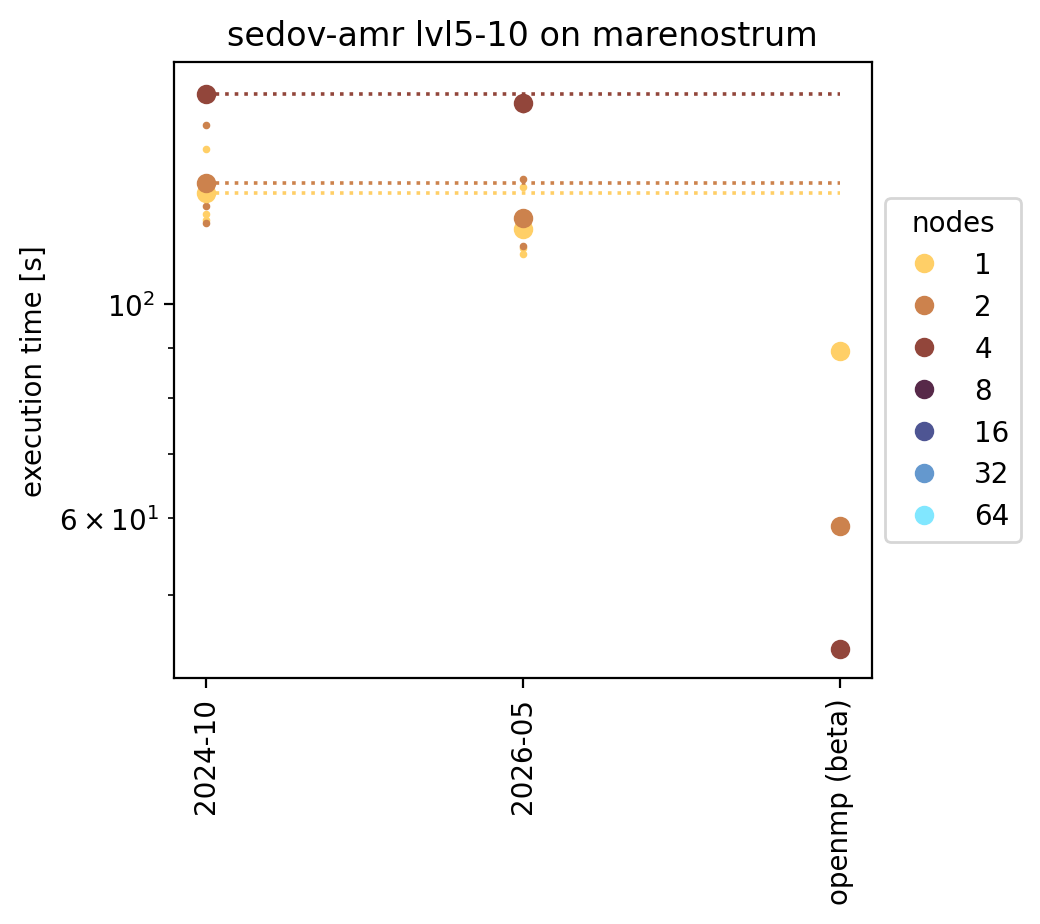
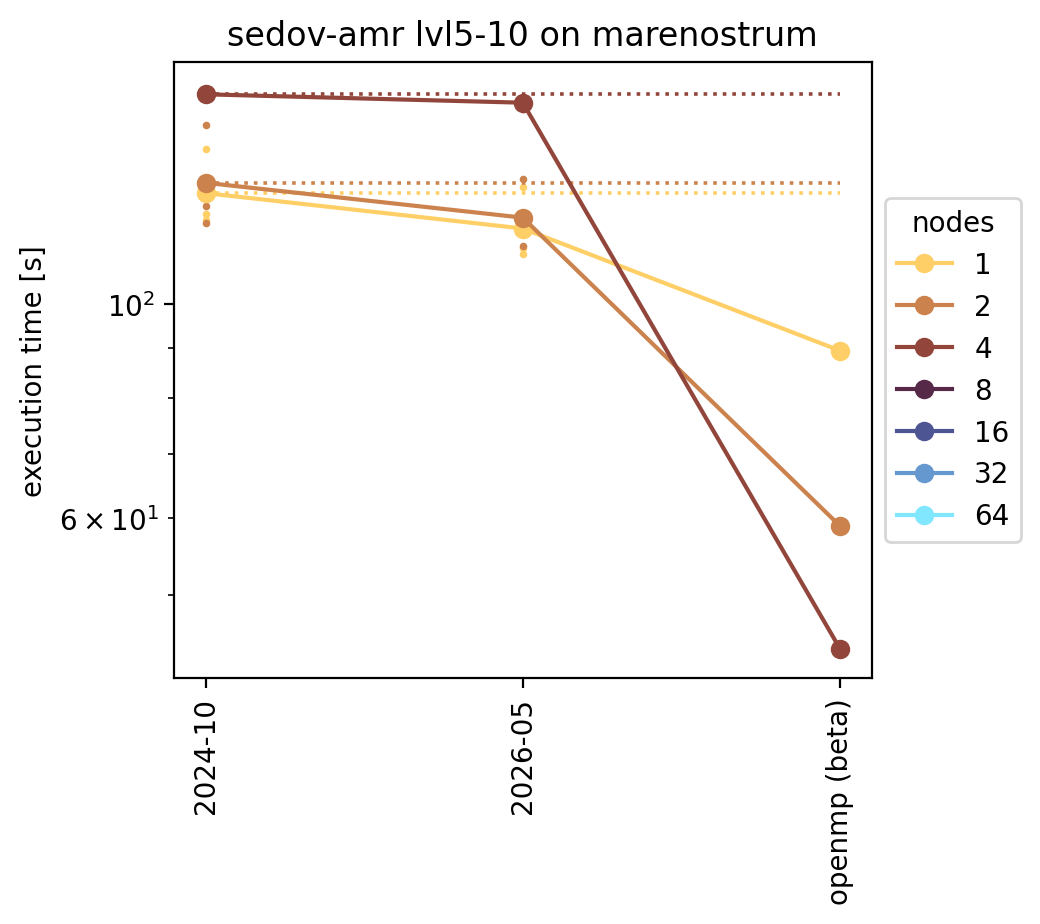
update some descriptions + improve plot layout

diff --git a/analysis/evolution_execution_time.py b/analysis/evolution_execution_time.py
@@ -42,7 +42,9 @@ def plot_execution_time_multinode(benchmarks, release_labels, reso,
                 labels.append(label)
 
         # plot evolution of time as a function of release
-        axes.errorbar(labels, times, fmt='o',markersize=6,
+        #axes.errorbar(labels, times, fmt='o',markersize=6,
+        #                color=colorVals[nodes], label=str(nodes))
+        axes.plot(labels, times, marker='o',markersize=6,
                         color=colorVals[nodes], label=str(nodes))
 
         # plot a line from the first point to make comparison easier

diff --git a/setups/collapse-MHD/description.md b/setups/collapse-MHD/description.md
@@ -1,6 +1,9 @@
 ## Collapse Benchmark
 
-This setup models an idealised collapsing core which forms two protostars in a binary, embedded in a spiral structure. An analytical equation of state is used to mimic the temperature increase due to the gas becoming optically thick for its own radiation at a specific density. It includes the formation of the first and second Larson core, if the resolution is high enough. The evolution is shown in the images at the bottom of this page. 
+This setup models an idealised collapsing core which forms two protostars in a binary, embedded in a spiral structure.
+The initial condition is the Boss-Bodenheimer core [(Boss & Bodenheimer 1979)](https://ui.adsabs.harvard.edu/abs/1979ApJ...234..289B/abstract).
+
+An analytical equation of state is used to mimic the temperature increase due to the gas becoming optically thick for its own radiation at a specific density. It includes the formation of the first and second Larson core, if the resolution is high enough. The evolution is shown in the images at the bottom of this page. 
 
 ### Challenge
 This type of simulation uses a very deep AMR grid with time step subcycling. Due to the fragmentation of the rotating core, grids are created and destroyed constantly, putting a lot of strain on the refinement routines. Additionally, the load balancing becomes suboptimal quickly, since grids are created or destroyed during the subcycling.

diff --git a/setups/cosmo/description.md b/setups/cosmo/description.md
@@ -8,6 +8,11 @@ TODO image
 
 TODO
 
+Timers:
+* `poisson`:
+* `particles`:
+* `rho`:
+
 ### Generating initial conditions
 
 TODO
@@ -26,3 +31,10 @@ This setup has been benchmarked on the following clusters:
 
 ### OpenMP configuration guidelines
 
+It is not worth running this setup with OpenMP for a low number of nodes.
+The main module, the poisson multigrid solver, performs similary with or without MPI upto about 16 nodes.
+The module rho, which performs the CIC, is slower with openMP due to the necesity of atomic operations when depositing the mass of particles on the grid.
+The routines that deal with particle book-keeping (make tree, synchro and move) also become slower when using many openMP threads.
+
+For a high number of MPI processes, the scaling of the poisson multigrid solver breaks down.
+Here, using OpenMP gives significant speedups and 

diff --git a/README.md b/README.md
@@ -15,13 +15,17 @@ Classical benchmarks
    * [sedov](setups/sedov/description.md): on a uniform grid (SPACE use-case 1)
    * [sedov-amr](setups/sedov-amr/description.md): using AMR
 
-Cosmological simulations
+Cosmological volumes
 * COSMO: a dark matter-only simulation
    * [cosmo](setups/cosmo/description.md): using a uniform grid (SPACE use-case 2)
    * [cosmo-amr](setups/cosmo-amr/description.md): using an AMR grid
 
-Isolated galaxy simulations
+Isolated galaxies
 * GALAXY:
+
+* Prestellar cores
+   * COLLAPSE: Boss-Bodenheimer setup of a gravitationally collapsing core forming a binary
+      * [COLLAPSE-mhd](setups/collapse-MHD/description.md): 
 
 ## Computing clusters
 

diff --git a/setups/cosmo-amr/description.md b/setups/cosmo-amr/description.md
@@ -17,6 +17,12 @@ See [cosmo](../cosmo/description.md)
 In this variation, we enable adaptive mesh refinement. The mesh is refined using a mass refinement criterion, for level 8 to level 12. For this setup, we want to reach a specified final output time instead of running a fixed number of time steps. The target expansion factor is a=0.09 (code units).
 
 The majority of the time is distributed between following modules:
+* `poisson`: calculation of the gravitational potential (%)
+* `particles`:
+* `rho`
+* `refine` 
+* `flag`
+* `load balance`
 
 
 ### Other versions
